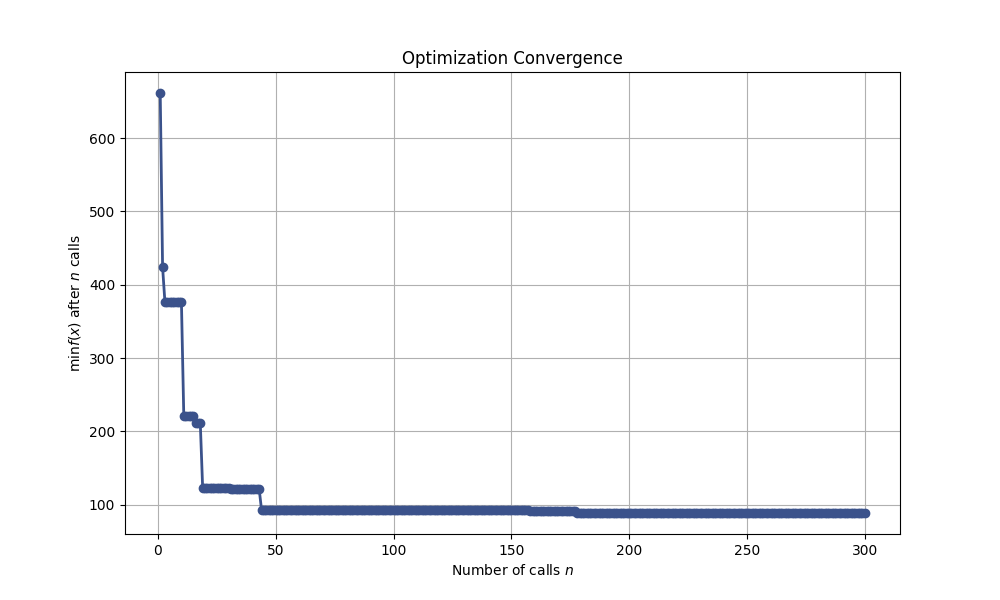
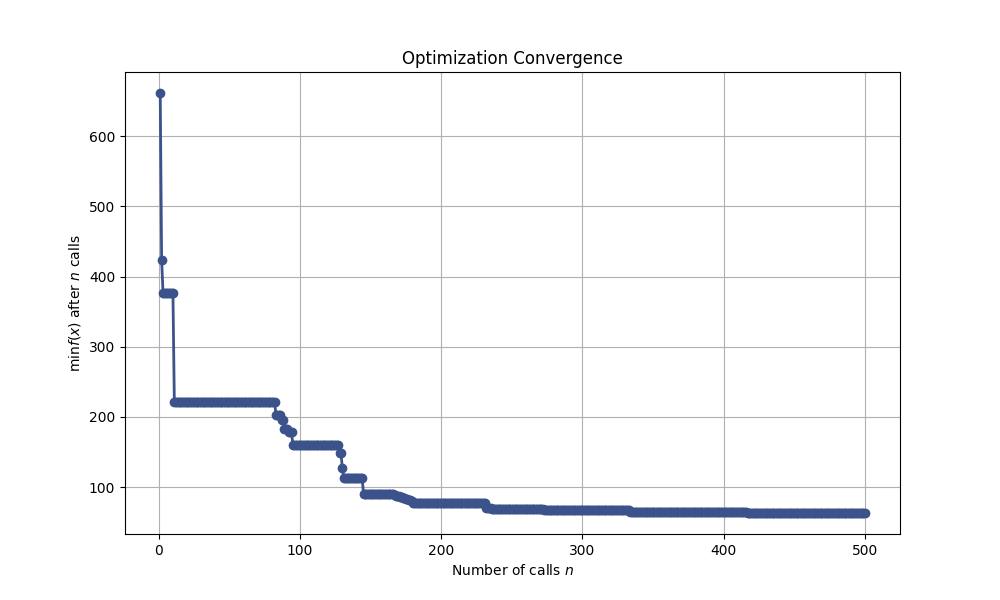
fix gaussian param, new rocket

diff --git a/Optimizer.py b/Optimizer.py
@@ -32,16 +32,16 @@ class Optimizer:
         self.setup_components(self.rocket)
         # Search Space
         self.space = [
-            Real(0.4, 2.5, name='top_tube_length'),    # Tube m
-            Real(0.005, 0.25, name='fin_height'),     # Span m
+            Real(0.48, 2.5, name='top_tube_length'),    # Tube m
+            Real(0.005, 0.25, name='fin_height'),     # Height m
             Real(0.005, 0.25, name='root_chord'),   # Root Chord m
-            Real(0.0, 1.0, name='tip_chord'),      # Tip Chord m
-            Real(0.0, 1.0, name='fin_sweep'),      # Sweep m
-            Real(0.0, 1.35, name='fin_angle'),      # Angle rads
+            Real(0.005, 1.0, name='tip_chord'),      # Tip Chord m
+            Real(0.005, 1.0, name='fin_sweep'),      # Sweep m
+            Real(0.0, 1.3, name='fin_angle'),      # Angle rads
             Real(-0.20, 0.0, name='fin_position'),   # Position m (Negative is forward)
-            Real(0.0, 1.0, name='nose_mass'),      # Nose Mass kg
+            # Real(0.0, 1.0, name='nose_mass'),      # Nose Mass kg
             Real(0.0, 1.0, name='vary_mass'),      # Vary Mass kg
-            Real(0.0, self.rocket.getLength() - 0.026, name='vary_position')       # Position m
+            Real(0.0, self.rocket.getLength(), name='vary_position')       # Position m
         ]
 
     def setup_components(self, component):
@@ -64,7 +64,7 @@ class Optimizer:
 
         @use_named_args(self.space)
         def objective_function(top_tube_length, fin_height, root_chord, tip_chord, 
-                               fin_sweep, fin_angle, fin_position, nose_mass, vary_mass, vary_position):
+                               fin_sweep, fin_angle, fin_position, vary_mass, vary_position):
             # Mod Rocket
             try:
                 # --- TUBE ---
@@ -88,10 +88,10 @@ class Optimizer:
                         if pos_from_top < 0: pos_from_top = 0 
                         fins.setAxialOffset(pos_from_top)
 
-                # --- NOSE BALLAST ---
-                ballast = self.get_component("Nose Mass")
-                if ballast: 
-                    ballast.setMass(nose_mass)
+                # # --- NOSE BALLAST ---
+                # ballast = self.get_component("Nose Mass")
+                # if ballast: 
+                #     ballast.setMass(nose_mass)
 
                 # --- Vary Mass & Position ---
                 custom_vary_mass= self.get_component("Vary Mass")
@@ -110,8 +110,8 @@ class Optimizer:
                 
                 # Extract Flight Data
                 alt_arr = np.array(data.get(self.FlightDataType.TYPE_ALTITUDE))
-                # stab_arr = np.array(data.get(self.FlightDataType.TYPE_STABILITY))
-                # vel_arr = np.array(data.get(self.FlightDataType.TYPE_VELOCITY_TOTAL))
+                stab_arr = np.array(data.get(self.FlightDataType.TYPE_STABILITY))
+                vel_arr = np.array(data.get(self.FlightDataType.TYPE_VELOCITY_TOTAL))
                 
                 apogee = max(alt_arr)
                 nonlocal best_apogee
@@ -124,20 +124,17 @@ class Optimizer:
             # 3. Calculate Loss (Distance from Target)
             loss = abs(apogee - TARGET_ALTITUDE)
 
-            # --- OPTIONAL PENALTIES (Uncomment if needed) ---
-            # # Get Rail Exit Data (approx 2.44m / 8ft)
-            # rail_indices = np.where(alt_arr >= 2.44)[0]
-            # if len(rail_indices) > 0:
-            #     launch_stab = stab_arr[rail_indices[0]]
-            #     launch_vel = vel_arr[rail_indices[0]]
-            # else:
-            #     launch_stab = 0.0; launch_vel = 0.0
+            sim_config = self.sim.getOptions()
+            rail_length = sim_config.getLaunchRodLength() # Returns length in meters
+            rail_indices = np.where(alt_arr >= rail_length)[0]
 
-            # # Penalty: Unstable (< 1.5 cal)
-            # if launch_stab < 1.5:
-            #     loss += 5000 * (1.5 - launch_stab) ** 2
+            if len(rail_indices) > 0:
+                launch_stab = stab_arr[rail_indices[0]]
 
-            # print(f"   Alt: {apogee*3.28:.0f}ft | Loss: {loss:.2f}")
+            # Penalty: Unstable (< 1.5 cal)
+            if launch_stab < 1.9:
+                loss += 5000 * (1.9 - launch_stab) ** 2
+
             return loss
 
         # Run the optimizer
@@ -145,8 +142,8 @@ class Optimizer:
             objective_function,
             self.space,
             n_calls=iterations,            
-            n_random_starts=10,    
-            noise=10.0,            
+            n_random_starts=int(iterations * 0.75),
+            noise=1e-6,            
             random_state=42        
         )
 

diff --git a/main.py b/main.py
@@ -9,7 +9,7 @@ import traceback
 
 # 1. Path to your verified JAR
 JAR_PATH = Path(__file__).parent / 'OpenRocket-23.09.jar'
-ROCKET_FILE = Path(__file__).parent / 'ALC Rocket Rough Draft.ork'
+ROCKET_FILE = Path(__file__).parent / 'ALC Rocket PDR Checked.ork'
 TARGET_ALTITUDE = 1524.0 # 5000 ft
 print("Initializing OpenRocket...")
 
@@ -26,7 +26,7 @@ try:
             print(f"Loaded rocket")
             # Run the Optimizer
             Opt = Optimizer(instance, str(ROCKET_FILE))
-            results = Opt.run_optimizer(TARGET_ALTITUDE, iterations=500)
+            results = Opt.run_optimizer(TARGET_ALTITUDE, iterations=250)
             print(f"✅ Optimization Complete! Best Apogee: {results[1]} m")
             # Report Results
             UiTools.report_results(results[0])

diff --git a/UiTools.py b/UiTools.py
@@ -24,9 +24,9 @@ def report_results(results):
 
     # Mass & Balance
     print("\n⚖ MASS & BALANCE")
-    print(f"   Nose Ballast:     {results.x[7]*1000:.0f} g")
-    print(f"   Var Mass:     {results.x[8]*1000:.0f} g")
-    print(f"   Var Position: {results.x[9]*100:.2f} cm")
+    # print(f"   Nose Ballast:     {results.x[7]*1000:.0f} g")
+    print(f"   Var Mass:     {results.x[7]*1000:.0f} g")
+    print(f"   Var Position: {results.x[8]*100:.2f} cm")
     
     print("-" * 50)
     print(f"🎯 Predicted Error:  {results.fun:.4f} (Objective Score)")
